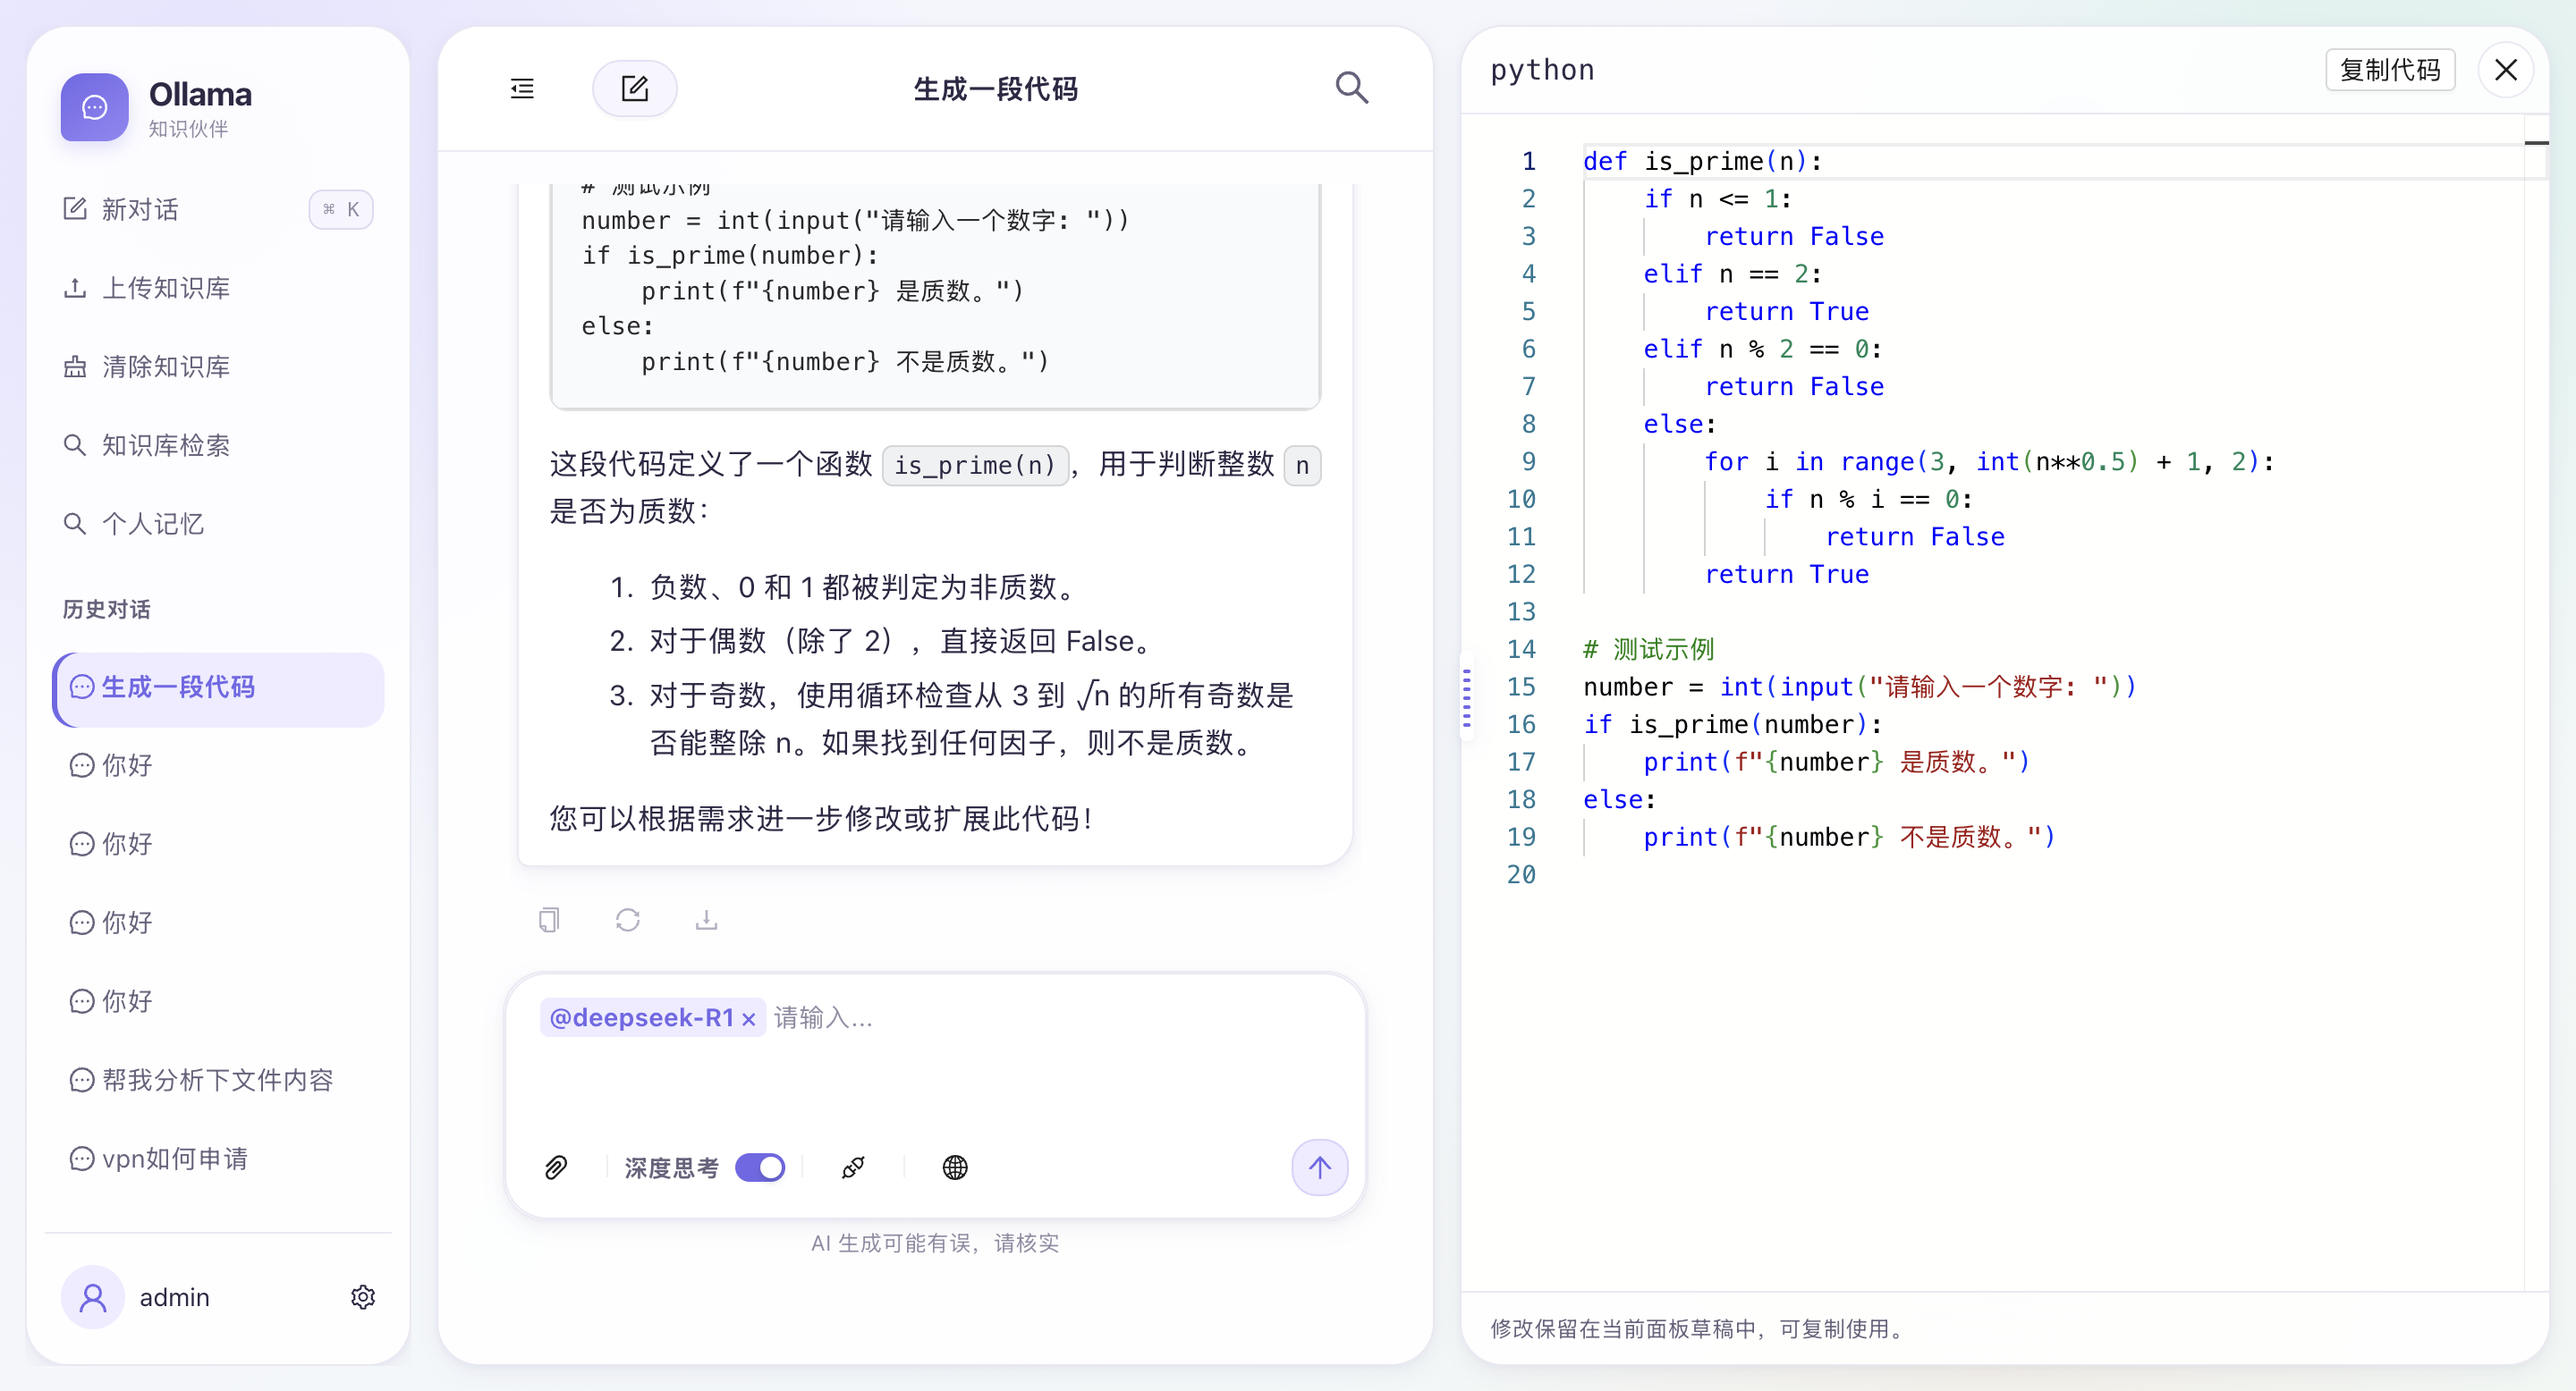
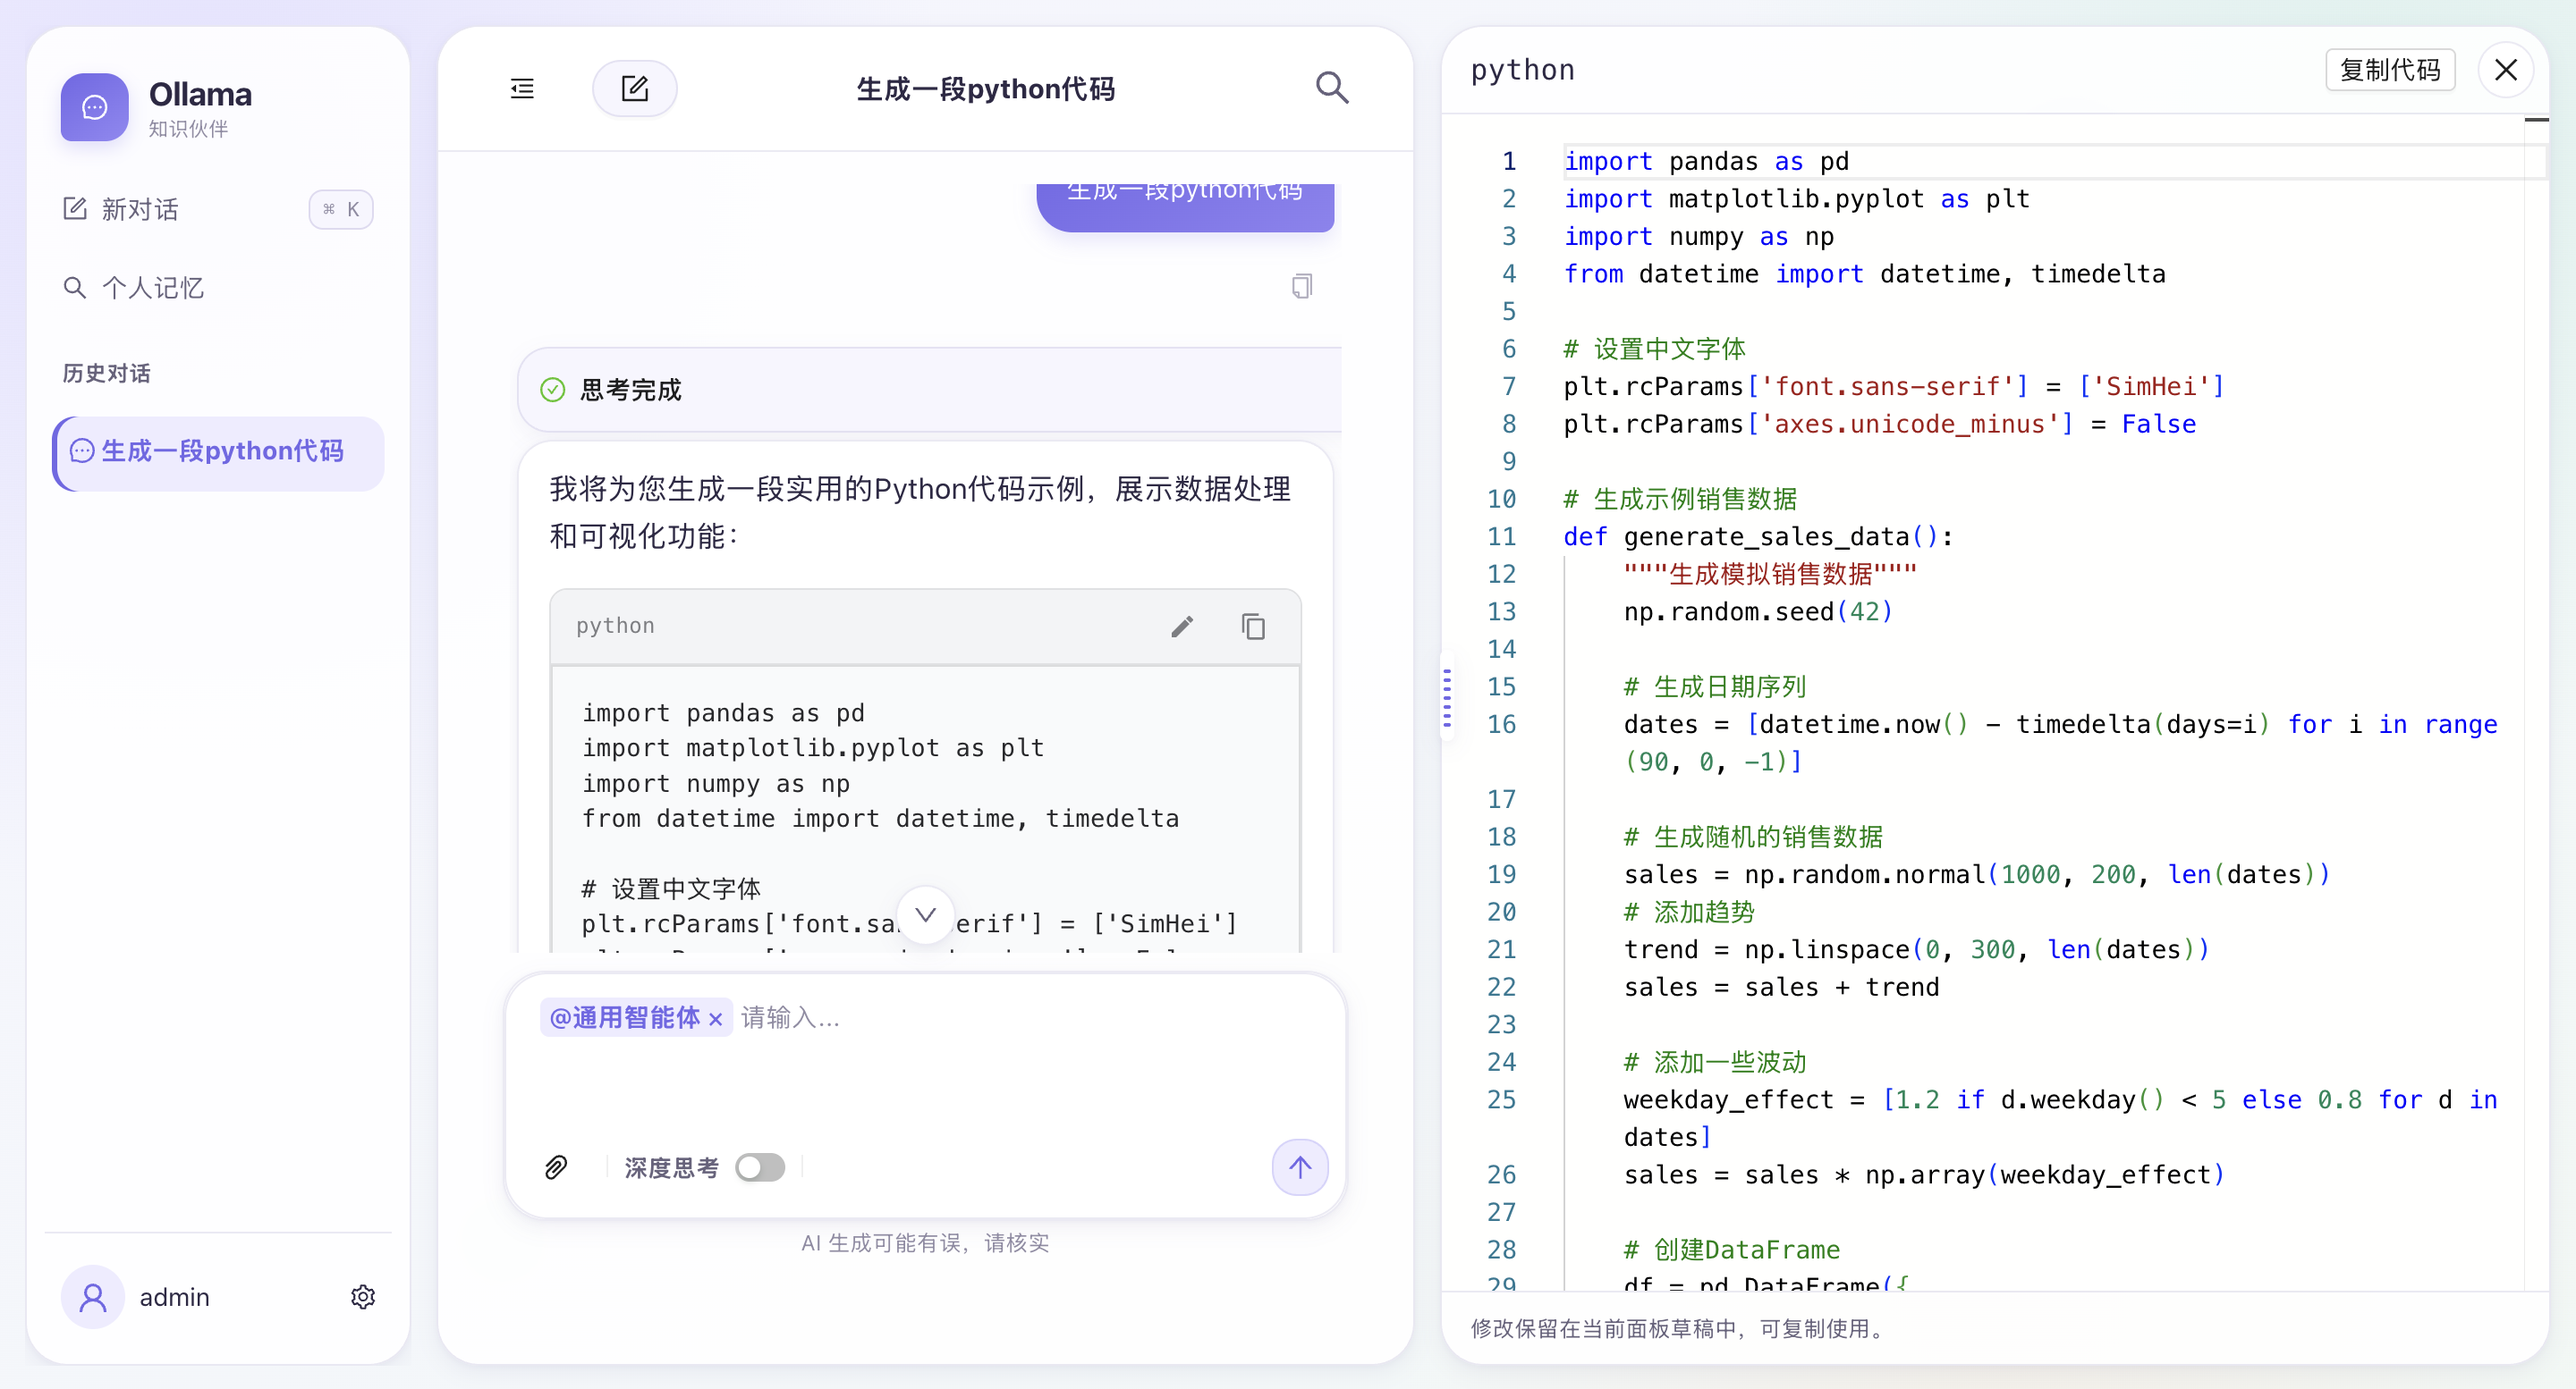
添加图片

diff --git a/README.md b/README.md
@@ -4,9 +4,10 @@
 
 ## 界面预览
 
-![Agent Knowledge 登录界面](docs/images/login.jpg)
 ![Agent Knowledge 对话界面](docs/images/chat.png)
 ![Agent Knowledge 知识库界面](docs/images/knowledge.png)
+![Agent Knowledge Admin 工作流](docs/images/workflow.png)
+![Agent Knowledge Admin Skill](docs/images/Skill.png)
 
 ## 功能特性
 
